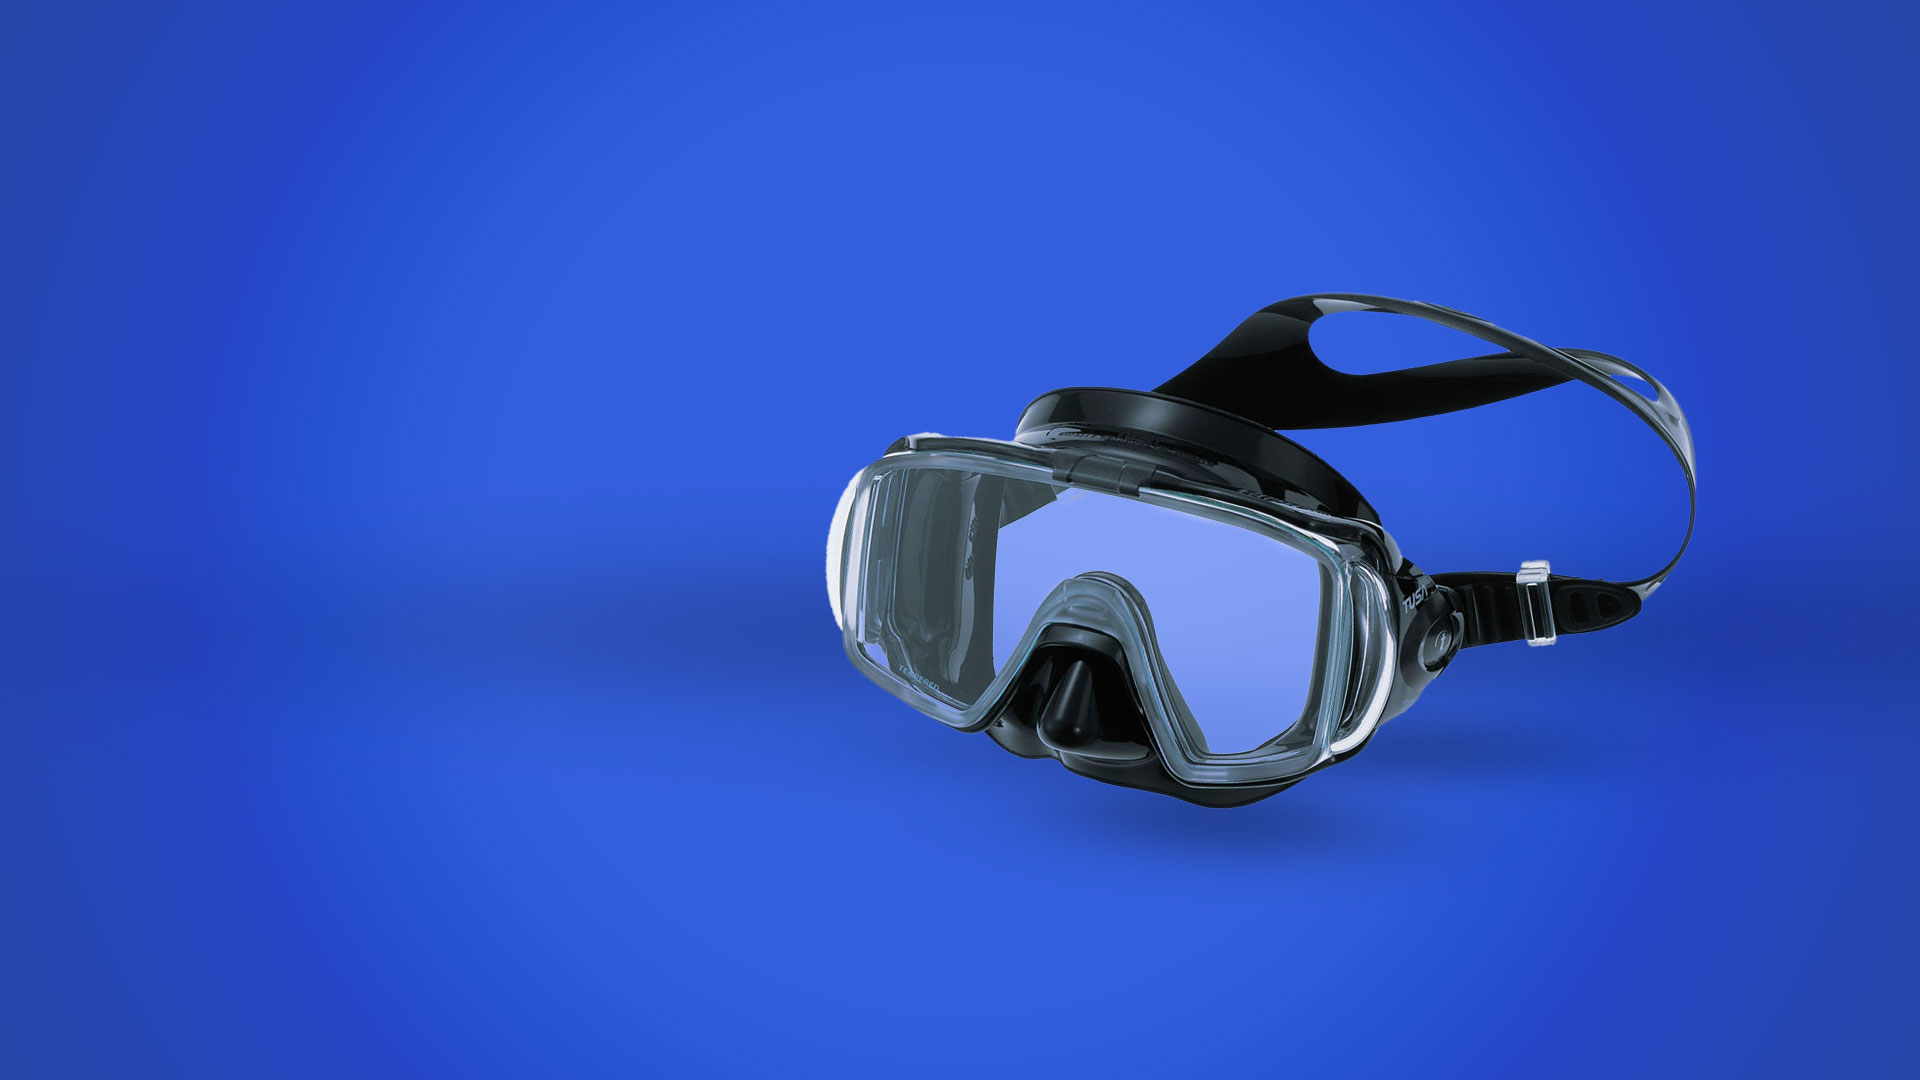
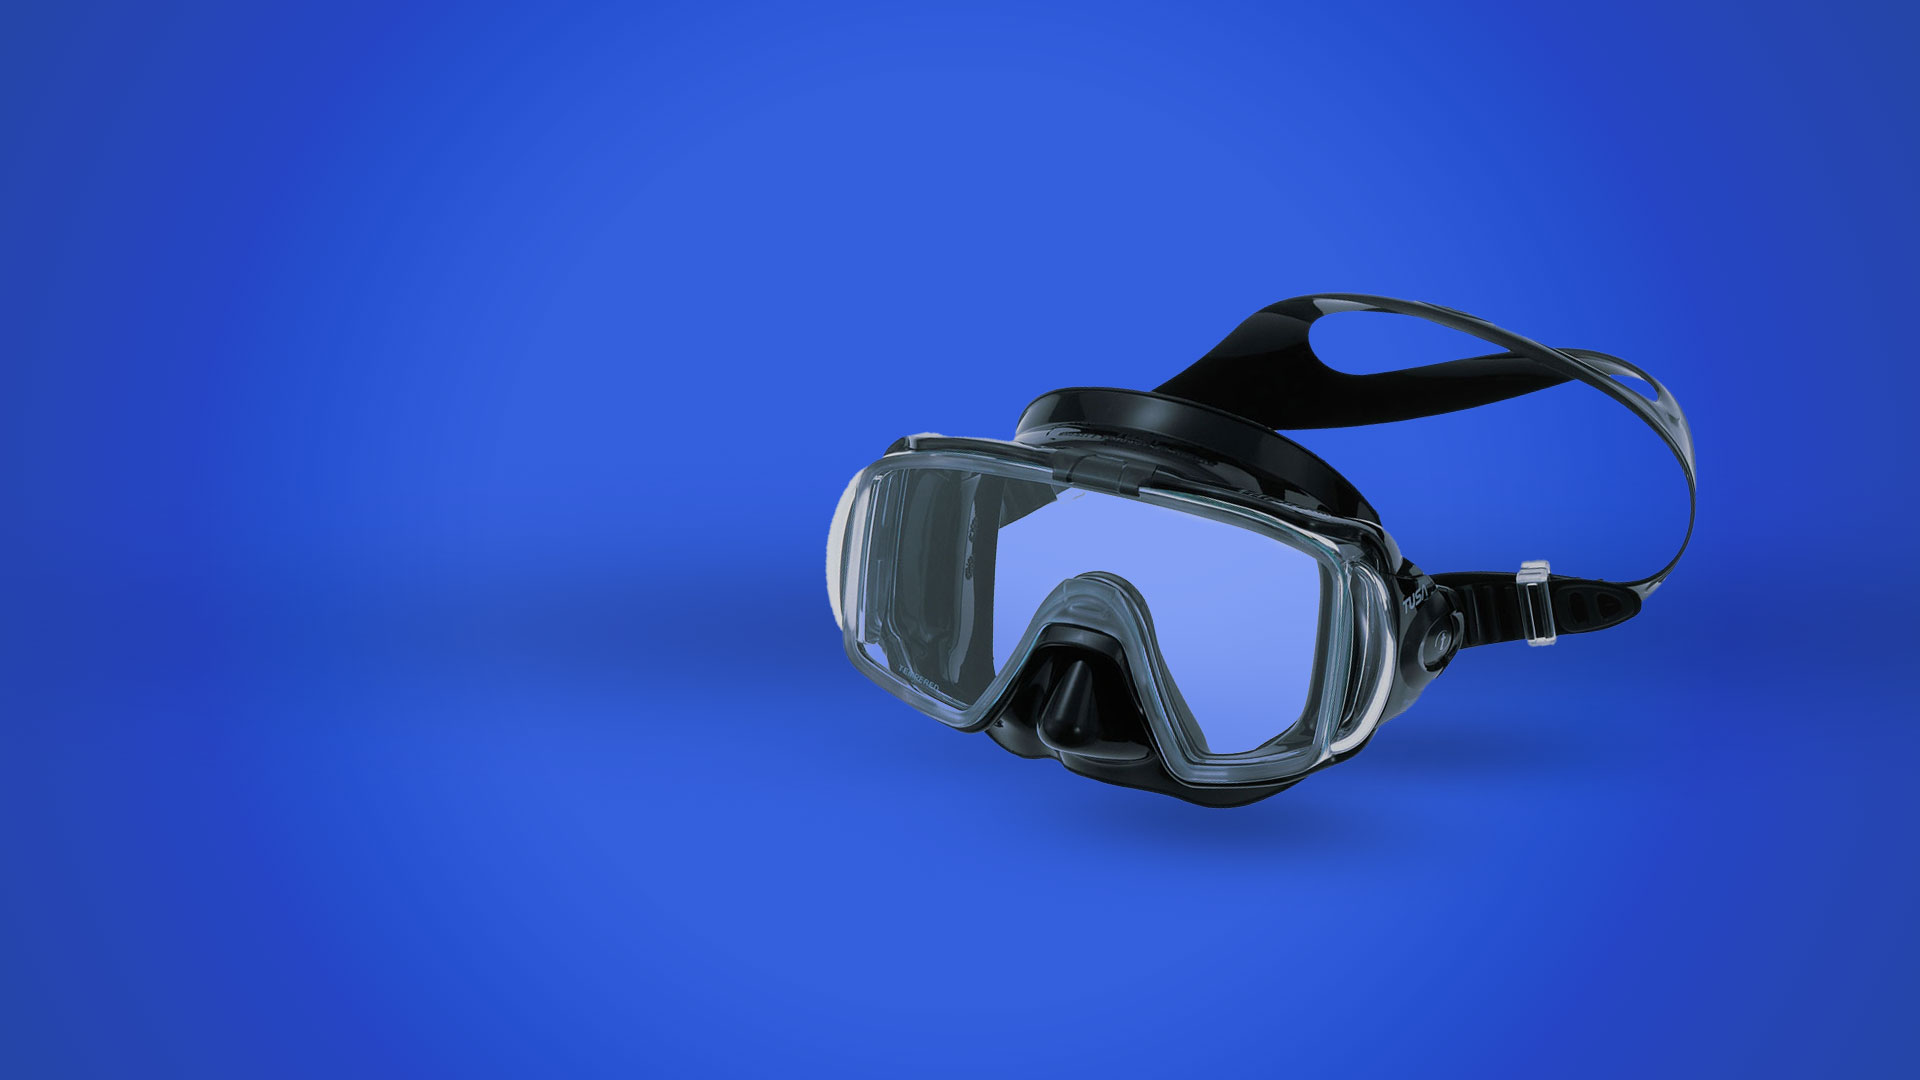
animating lines

diff --git a/src/files/css/style.css b/src/files/css/style.css
@@ -4036,6 +4036,15 @@ body.active .lines {
     left: 0;
     width: 100%;
     height: 100%; }
+    .home-slide .home-background-holder:after {
+      content: '';
+      position: absolute;
+      top: 0;
+      left: 0;
+      width: 100%;
+      height: 100%;
+      background: #222;
+      opacity: 0.3; }
   .home-slide .home-background {
     background-position: center center;
     left: 0;
@@ -4043,7 +4052,9 @@ body.active .lines {
     animation: none; }
   .home-slide .slide-content .slide-num {
     opacity: 0.3;
-    color: #fff !important; } }
+    color: #fff !important; }
+  .static-lines line {
+    display: none; } }
 
 @media screen and (max-width: 600px) {
   .home-slide .slide-content h1 {

diff --git a/src/files/scss/home-slider.scss b/src/files/scss/home-slider.scss
@@ -302,6 +302,16 @@ body.active .lines{
       left: 0;
       width: 100%;
       height: 100%;
+      &:after{
+        content:'';
+        position: absolute;
+        top: 0;
+        left: 0;
+        width: 100%;
+        height: 100%;
+        background: $dark;
+        opacity: 0.3;
+      }
     }
     .home-background{
       background-position: center center;
@@ -314,6 +324,12 @@ body.active .lines{
         opacity: 0.3;
         color: $white !important;
       }
+    }
+  }
+
+  .static-lines{
+    line{
+      display: none;
     }
   }
 }
